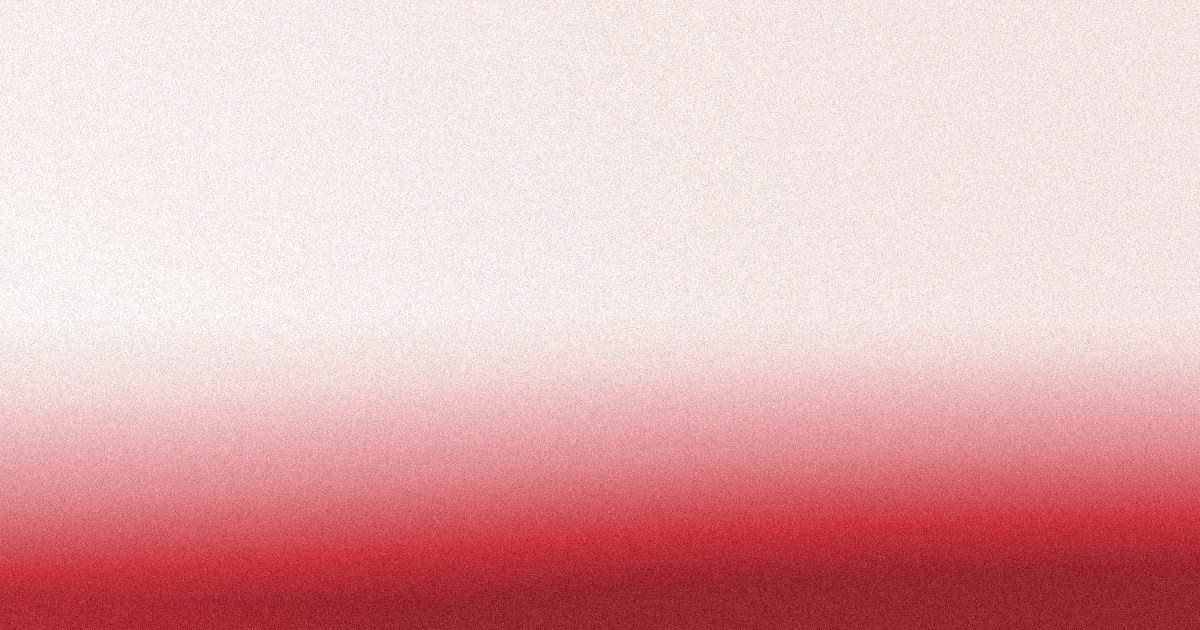
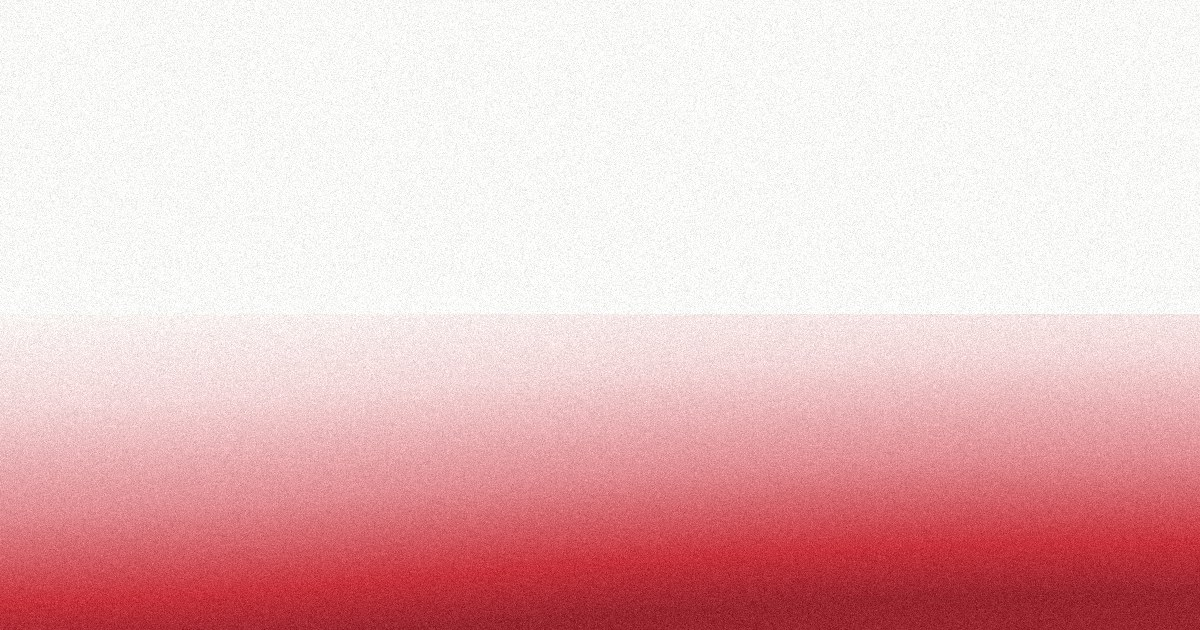
chore(texturas): banda roja de altura fija (receta v2) y set 2x/3x sin estirar
QA de Fabrizio en preview: el rojo tiene que ocupar una altura FIJA de viewport
(hero ~30 vh, cierre ~50 vh), no una proporción del lienzo. generar.py suma el
modo `banda W H ROJO`: rampa desde abajo (rojo pleno a ROJO px, papel a
1,67 × ROJO, papel liso más arriba), así la imagen se recorta por arriba sin
costura. El CSS la sirve como banda anclada abajo (hero 50 svh, cierre 83 svh)
con cover.

Set: hero m2x 1200×1000 (189 KB, LCP mobile), m3x 1800×1500, d2x 3000×1000;
cierre m2x 1200×1500, d2x 3000×1500 (lazy). A 2x no se estira en ningún tramo
medido (390, 768, 1440); el cierre en tablet vertical sube 13 %. OG regenerado
con la misma receta.

diff --git a/tools/texturas/generar.py b/tools/texturas/generar.py
@@ -2,17 +2,30 @@
 """
 Generador de texturas de marca — refranco.ai
 Receta aprobada 06-sep-2026 (chat landing): composición F3i-b, paleta T1, grano 0,035.
+Regla de composición v2 (QA de Fabrizio, 07-sep-2026): el rojo ocupa una ALTURA FIJA
+medida desde abajo (`rojo`, en px de la imagen), no una proporción del lienzo. Sobre el
+bloque rojo la rampa sigue hasta papel en 1,67 × rojo (0,6 = rojo pleno); lo que quede
+más arriba es papel liso, que es el fondo de la página, así la imagen se puede recortar
+por arriba sin costura. En CSS la banda se sirve con altura fija en vh y `object-fit:
+cover` anclado abajo: hero 50 svh (rojo = 30 vh), cierre 83 svh (rojo = 50 vh).
+
 Uso:
-  python tools/texturas/generar.py hero   1440 1600 public/landing/textura-hero-desktop.webp
-  python tools/texturas/generar.py hero    900 1600 public/landing/textura-hero-mobile.webp
-  python tools/texturas/generar.py cierre 1440 1000 public/landing/textura-cierre-desktop.webp
-  python tools/texturas/generar.py cierre  900 1400 public/landing/textura-cierre-mobile.webp
-  python tools/texturas/generar.py hero   1200  630 public/landing/og-hero.jpg   # fondo del OG (JPEG, lo lee Satori)
+  python tools/texturas/generar.py banda ANCHO ALTO ROJO salida.webp
+  # set de la landing (2x/3x, servido por <picture> + srcset, nada se estira):
+  python tools/texturas/generar.py banda 1200 1000  600 public/landing/textura-hero-m2x.webp
+  python tools/texturas/generar.py banda 1800 1500  900 public/landing/textura-hero-m3x.webp
+  python tools/texturas/generar.py banda 3000 1000  600 public/landing/textura-hero-d2x.webp   # cubre 50 svh hasta 1000 px de alto
+  python tools/texturas/generar.py banda 1200 1500  900 public/landing/textura-cierre-m2x.webp
+  python tools/texturas/generar.py banda 3000 1500  900 public/landing/textura-cierre-d2x.webp
+  python tools/texturas/generar.py banda 1200  630  190 public/landing/og-hero.jpg   # OG (JPEG: Satori no lee WebP)
+  # receta v1 (proporción del lienzo), por si hace falta reproducirla:
+  python tools/texturas/generar.py hero 1440 1600 salida.webp · cierre 1440 1000 salida.webp
 Requiere: numpy, Pillow (`python -m pip install numpy pillow`).
-Determinista (seed fija): mismo tamaño → misma imagen. El formato lo decide la extensión de salida
-(.webp con QUALITY, .jpg con calidad 88; WebP no lo lee el runtime edge del OG).
-No cambiar paleta, grano ni composición sin decisión explícita; sí se puede cambiar tamaño, calidad y formato.
-Las texturas generadas se commitean junto con el script: el build de Vercel no corre Python.
+Determinista (seed fija): mismo tamaño → misma imagen. El formato lo decide la extensión
+(.webp con QUALITY, .jpg con calidad 88).
+No cambiar paleta, grano ni composición sin decisión explícita; sí se puede cambiar tamaño,
+calidad y formato. Las texturas generadas se commitean junto con el script: el build de
+Vercel no corre Python.
 """
 import sys
 import numpy as np
@@ -50,11 +63,22 @@ def colormap(v):
         out[m] = hexc(c0) * (1 - t) + hexc(c1) * t
     return out
 
-def render(kind, w, h, out, seed=7):
-    bias_fn = COMPOSICION[kind]
+def bias_banda(h, rojo):
+    """v2: rampa desde abajo. v = 1 en el borde inferior, 0,6 (rojo pleno) a `rojo` px,
+    0 (papel) a 1,67 × rojo; más arriba, papel liso."""
+    def fn(x, y):
+        d = (1 - y) * h                      # px desde abajo
+        return np.clip(1 - d / (rojo / 0.6), 0, 1)
+    return fn
+
+def render(kind, w, h, out, seed=7, rojo=None):
+    bias_fn = bias_banda(h, rojo) if kind == 'banda' else COMPOSICION[kind]
     f = field(w, h, seed)
     yy, xx = np.mgrid[0:h, 0:w]
     v = np.clip(f * FIELD_W + bias_fn(xx / w, yy / h) * (1 - FIELD_W * 0.4), 0, 1)
+    if kind == 'banda':
+        # el campo orgánico no debe manchar el papel liso de arriba: se apaga con la rampa
+        v = np.where(bias_fn(xx / w, yy / h) > 0, v, 0)
     rgb = colormap(v)
     g = np.random.default_rng(seed).normal(0, 1, (h, w))
     rgb = rgb + (g[:, :, None] * GRAIN * 255)
@@ -66,5 +90,10 @@ def render(kind, w, h, out, seed=7):
     print(f'{out}: {w}x{h}')
 
 if __name__ == '__main__':
-    kind, w, h, out = sys.argv[1], int(sys.argv[2]), int(sys.argv[3]), sys.argv[4]
-    render(kind, w, h, out)
+    kind = sys.argv[1]
+    if kind == 'banda':
+        w, h, rojo, out = int(sys.argv[2]), int(sys.argv[3]), int(sys.argv[4]), sys.argv[5]
+        render(kind, w, h, out, rojo=rojo)
+    else:
+        w, h, out = int(sys.argv[2]), int(sys.argv[3]), sys.argv[4]
+        render(kind, w, h, out)
